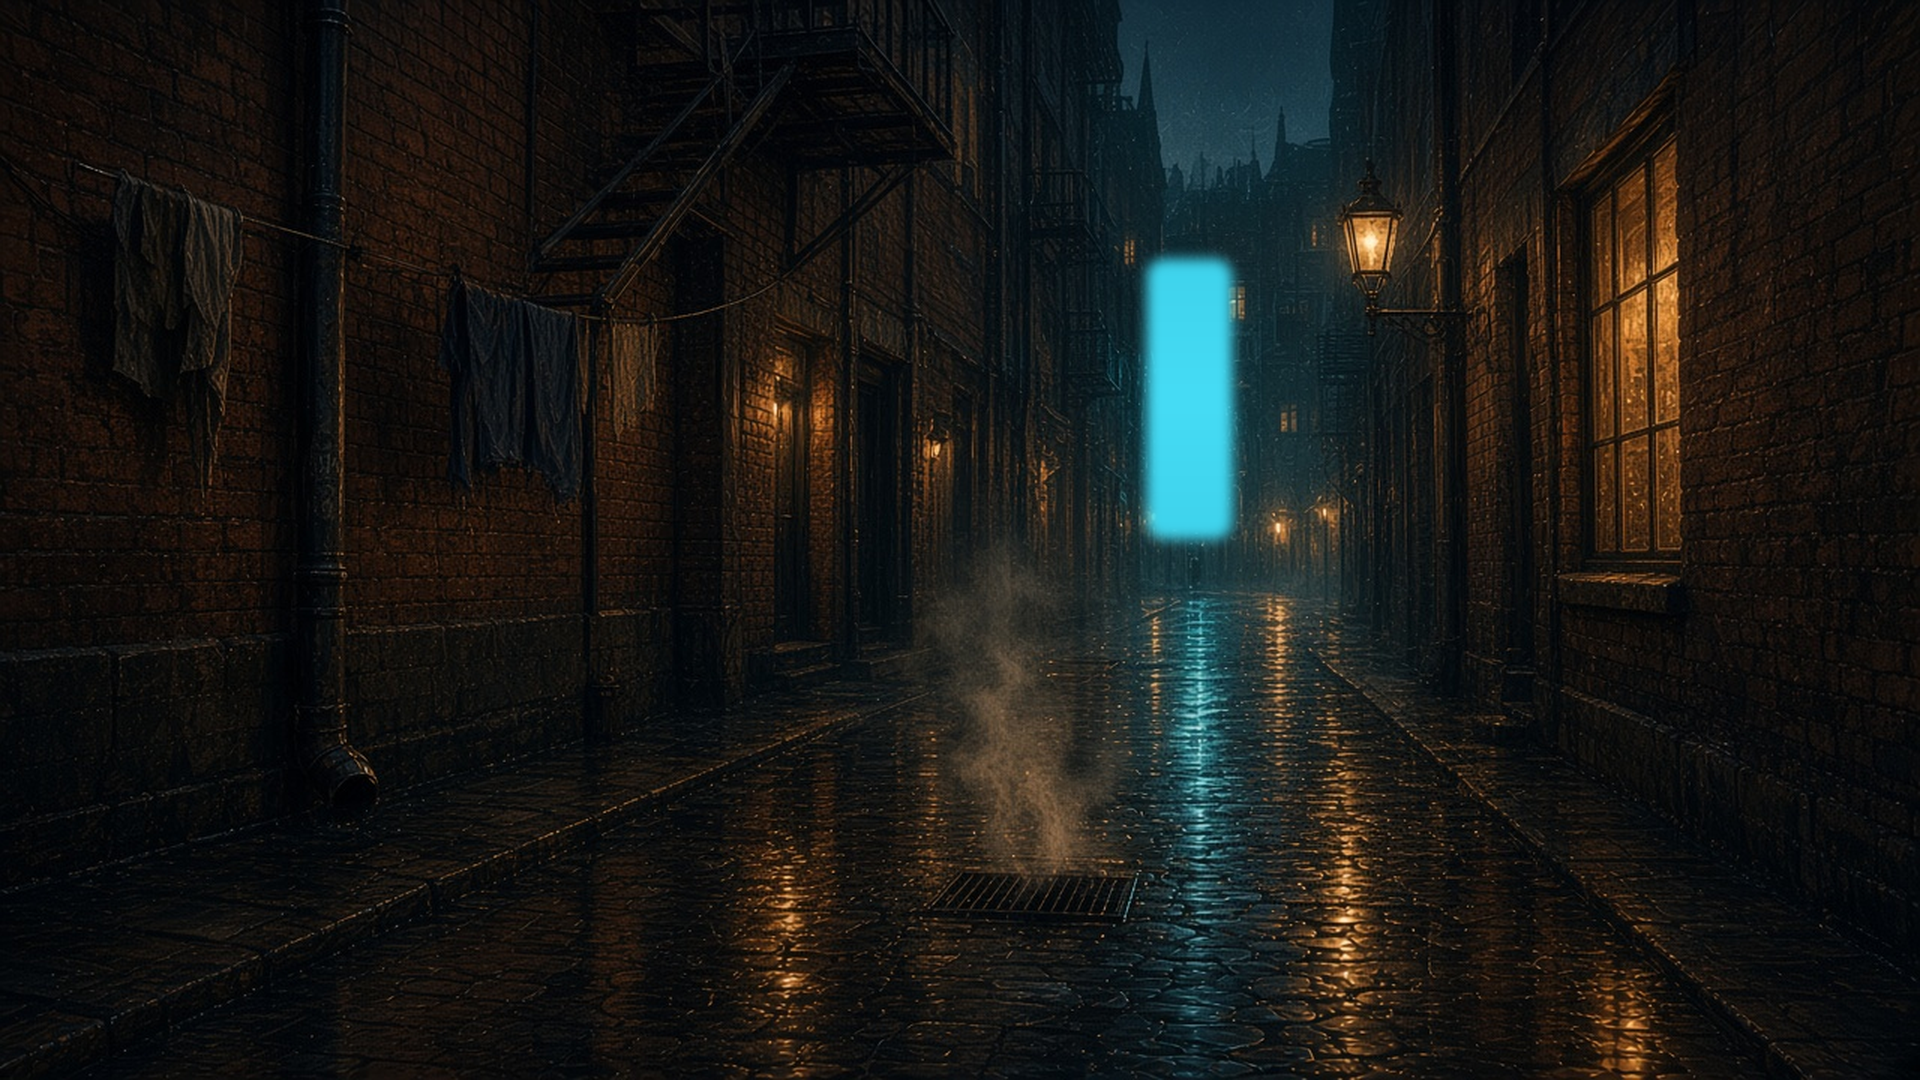
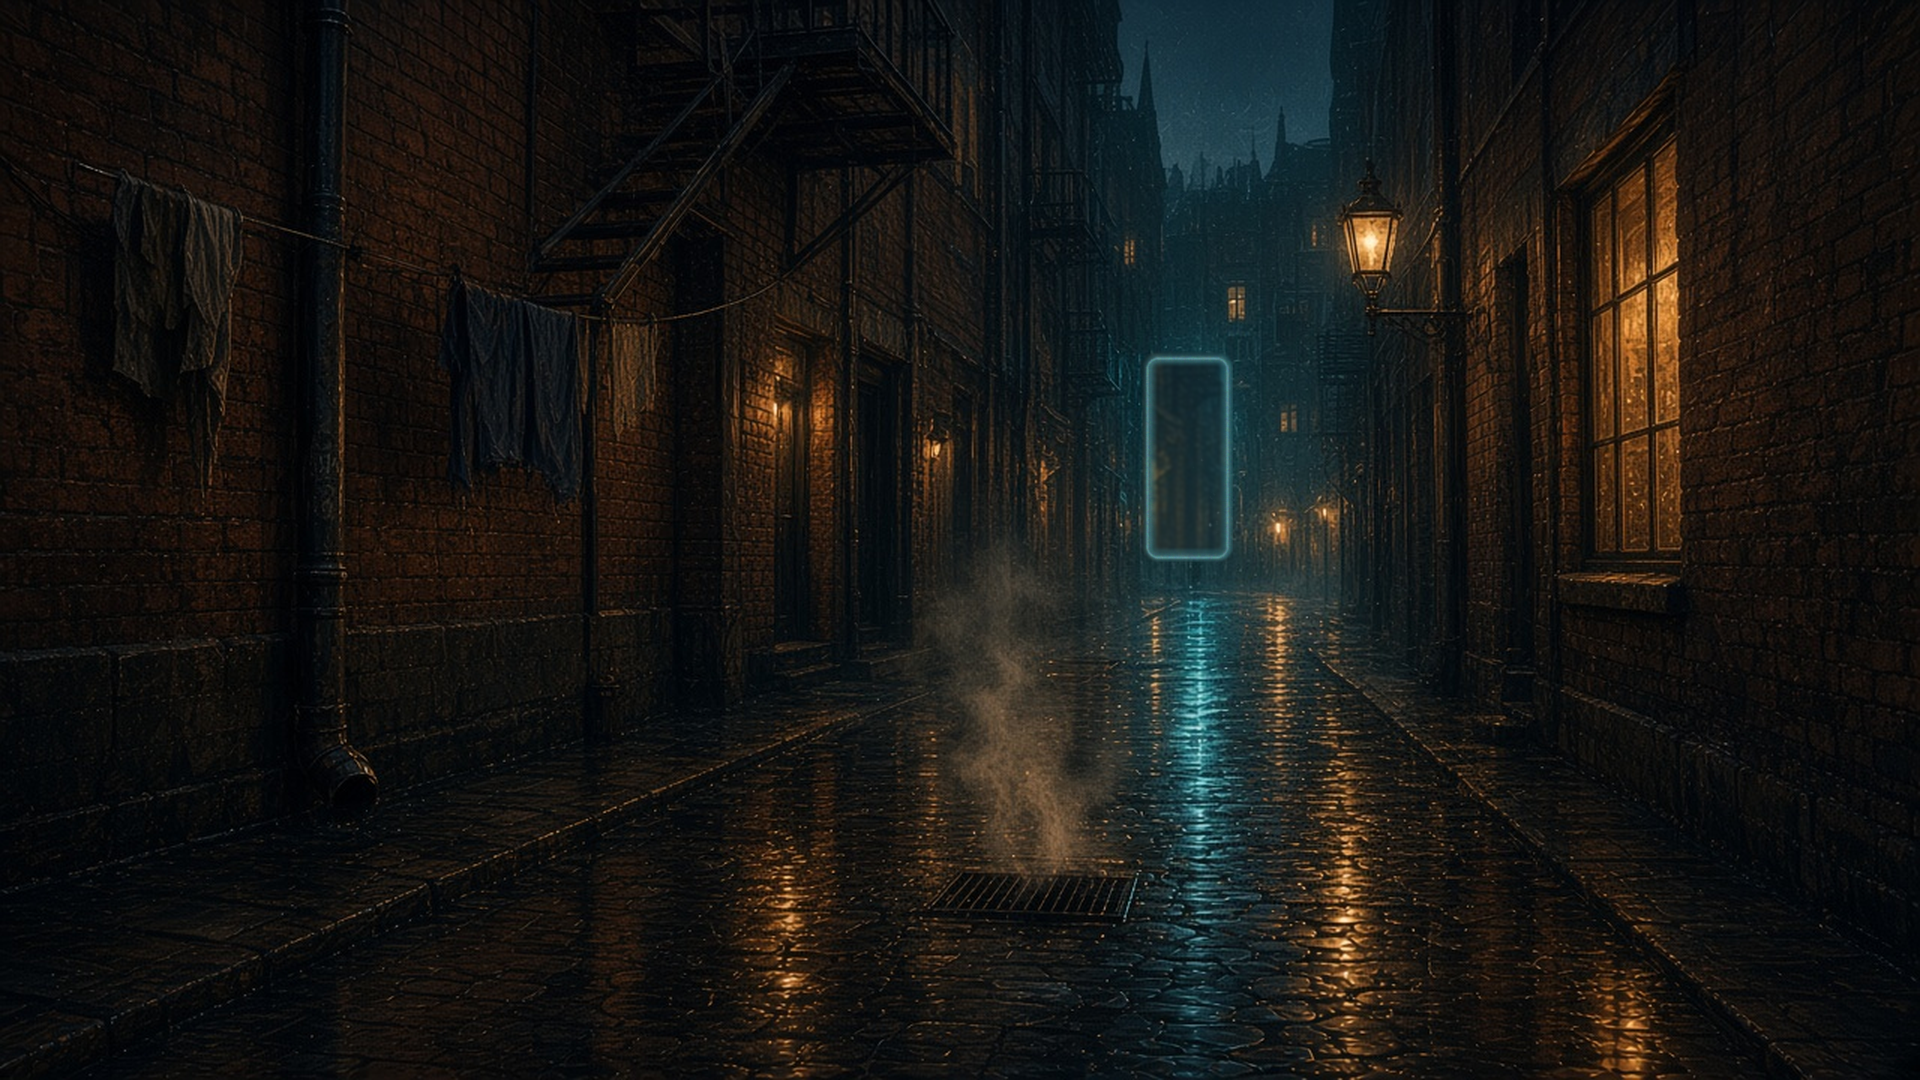
Drop leftover H'aanit, stop mid-word option wraps, and replace Rain Alley

Changed region(s): [[0.5938, 0.2139, 0.6562, 0.5194]]

diff --git a/fun-projects/play-your-way/games/cafe-rush.html b/fun-projects/play-your-way/games/cafe-rush.html
@@ -56,7 +56,7 @@
     .option-card { background: var(--card); border: 1.5px solid var(--border); border-radius: 12px; padding: 8px 10px; display: flex; align-items: center; gap: 8px; cursor: pointer; min-height: 52px; min-width: 0; }
     .option-card.selected { border-color: #fff; box-shadow: 0 0 0 2px var(--accent); }
     .option-badge { width: 26px; height: 26px; border-radius: 8px; background: var(--accent); color: #111; font-weight: 800; display: flex; align-items: center; justify-content: center; flex-shrink: 0; }
-    .option-text { font-weight: 700; line-height: 1.25; min-width: 0; overflow-wrap: break-word; }
+    .option-text { font-weight: 700; line-height: 1.25; min-width: 0; overflow-wrap: break-word; word-break: normal; }
     .hud-bottom-bar { width: 100%; max-width: 1080px; margin: 0 auto; display: flex; justify-content: space-between; align-items: flex-end; gap: 10px; pointer-events: none; }
     .touch-controls-cluster { display: flex; gap: 8px; flex-wrap: wrap; pointer-events: auto; }
     .touch-action-btn, .hud-btn, .btn-primary, .btn-ghost {
@@ -123,6 +123,9 @@
     .school-footer { font-size: 0.74rem; color: var(--muted); text-align: center; background: rgba(0,0,0,0.4); padding: 5px 14px; border-radius: 999px; border: 1px solid var(--border); }
     @media (max-width: 768px) {
       .options-below-row { gap: 5px; }
+      .option-card { padding: 7px 6px; gap: 5px; }
+      .option-badge { width: 22px; height: 22px; }
+      .option-text { font-size: 0.74rem; word-break: normal; overflow-wrap: break-word; }
       .score-summary-banner { grid-template-columns: repeat(2, 1fr); }
       .question-card { padding: 7px 10px; }
       .q-prompt-text { font-size: 0.86rem; }
@@ -777,6 +780,27 @@
       if (!el) return;
       const len = String(text || "").length;
       el.style.fontSize = len > 42 ? "0.72rem" : (len > 24 ? "0.82rem" : "0.95rem");
+      const longest = String(text || "").split(/\s+/).reduce(function (best, word) {
+        return word.length > best.length ? word : best;
+      }, "");
+      if (!longest) return;
+      const rootPx = parseFloat(getComputedStyle(document.documentElement).fontSize) || 16;
+      const minPx = 0.62 * rootPx;
+      const cs = getComputedStyle(el);
+      const probe = document.createElement("span");
+      probe.style.cssText = "position:absolute;left:-9999px;top:0;white-space:nowrap;visibility:hidden;font:" + cs.font + ";letter-spacing:" + cs.letterSpacing + ";";
+      probe.textContent = longest;
+      document.body.appendChild(probe);
+      let px = parseFloat(cs.fontSize) || rootPx;
+      const available = el.clientWidth;
+      if (available > 0) {
+        while (px > minPx + 0.1 && probe.getBoundingClientRect().width > available) {
+          px -= 0.5;
+          probe.style.fontSize = px + "px";
+        }
+        el.style.fontSize = (px / rootPx) + "rem";
+      }
+      probe.remove();
     }
 
     function highlightSelectedLane() {

diff --git a/fun-projects/play-your-way/games/night-case.html b/fun-projects/play-your-way/games/night-case.html
@@ -56,7 +56,7 @@
     .option-card { background: var(--card); border: 1.5px solid var(--border); border-radius: 12px; padding: 8px 10px; display: flex; align-items: center; gap: 8px; cursor: pointer; min-height: 52px; min-width: 0; }
     .option-card.selected { border-color: #fff; box-shadow: 0 0 0 2px var(--accent); }
     .option-badge { width: 26px; height: 26px; border-radius: 8px; background: var(--accent); color: #111; font-weight: 800; display: flex; align-items: center; justify-content: center; flex-shrink: 0; }
-    .option-text { font-weight: 700; line-height: 1.25; min-width: 0; overflow-wrap: break-word; }
+    .option-text { font-weight: 700; line-height: 1.25; min-width: 0; overflow-wrap: break-word; word-break: normal; }
     .hud-bottom-bar { width: 100%; max-width: 1080px; margin: 0 auto; display: flex; justify-content: space-between; align-items: flex-end; gap: 10px; pointer-events: none; }
     .touch-controls-cluster { display: flex; gap: 8px; flex-wrap: wrap; pointer-events: auto; }
     .touch-action-btn, .hud-btn, .btn-primary, .btn-ghost {
@@ -123,6 +123,9 @@
     .school-footer { font-size: 0.74rem; color: var(--muted); text-align: center; background: rgba(0,0,0,0.4); padding: 5px 14px; border-radius: 999px; border: 1px solid var(--border); }
     @media (max-width: 768px) {
       .options-below-row { gap: 5px; }
+      .option-card { padding: 7px 6px; gap: 5px; }
+      .option-badge { width: 22px; height: 22px; }
+      .option-text { font-size: 0.74rem; word-break: normal; overflow-wrap: break-word; }
       .score-summary-banner { grid-template-columns: repeat(2, 1fr); }
       .question-card { padding: 7px 10px; }
       .q-prompt-text { font-size: 0.86rem; }
@@ -772,6 +775,27 @@
       if (!el) return;
       const len = String(text || "").length;
       el.style.fontSize = len > 42 ? "0.72rem" : (len > 24 ? "0.82rem" : "0.95rem");
+      const longest = String(text || "").split(/\s+/).reduce(function (best, word) {
+        return word.length > best.length ? word : best;
+      }, "");
+      if (!longest) return;
+      const rootPx = parseFloat(getComputedStyle(document.documentElement).fontSize) || 16;
+      const minPx = 0.62 * rootPx;
+      const cs = getComputedStyle(el);
+      const probe = document.createElement("span");
+      probe.style.cssText = "position:absolute;left:-9999px;top:0;white-space:nowrap;visibility:hidden;font:" + cs.font + ";letter-spacing:" + cs.letterSpacing + ";";
+      probe.textContent = longest;
+      document.body.appendChild(probe);
+      let px = parseFloat(cs.fontSize) || rootPx;
+      const available = el.clientWidth;
+      if (available > 0) {
+        while (px > minPx + 0.1 && probe.getBoundingClientRect().width > available) {
+          px -= 0.5;
+          probe.style.fontSize = px + "px";
+        }
+        el.style.fontSize = (px / rootPx) + "rem";
+      }
+      probe.remove();
     }
 
     function highlightSelectedLane() {

diff --git a/fun-projects/play-your-way/games/pixel-duel.html b/fun-projects/play-your-way/games/pixel-duel.html
@@ -890,6 +890,16 @@
       grid-template-columns: 1fr 1fr;
       gap: 10px;
     }
+    @media (max-width: 600px) {
+      #word-builder-modal .field-row-2col {
+        grid-template-columns: 1fr;
+      }
+      #select-hkdse-band {
+        min-width: 0;
+        width: 100%;
+        text-overflow: clip;
+      }
+    }
 
     .field-group {
       display: flex;
@@ -2206,7 +2216,7 @@
       },
       {
         mode: 'PROOFREADING', band: 'DSE_HIGH', word: 'used to wake -> waking', zh: 'be used to + V-ing（習慣於）',
-        prompt: 'Spot the correction: "As a forest hunter, H\'aanit is used to track beasts in the snow."',
+        prompt: 'Spot the correction: "As a forest hunter, she is used to track beasts in the snow."',
         options: ['As -> Like', 'track -> tracking', 'in -> on'], answer: 1,
         expEn: '"Be used to" (meaning accustomed to) must be followed by a gerund ("tracking").',
         expZh: '「be used to」解作「習慣於……」，當中的「to」為介詞，後須接動名詞（tracking）。'
